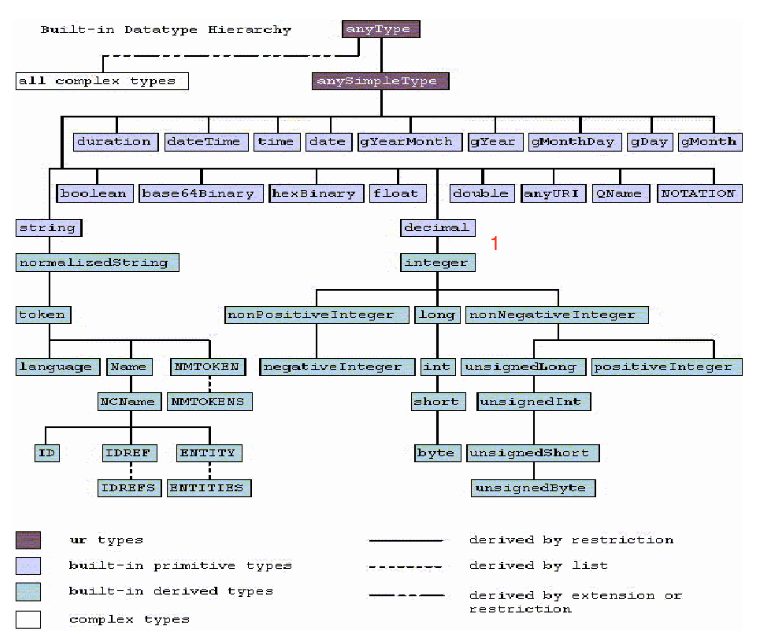
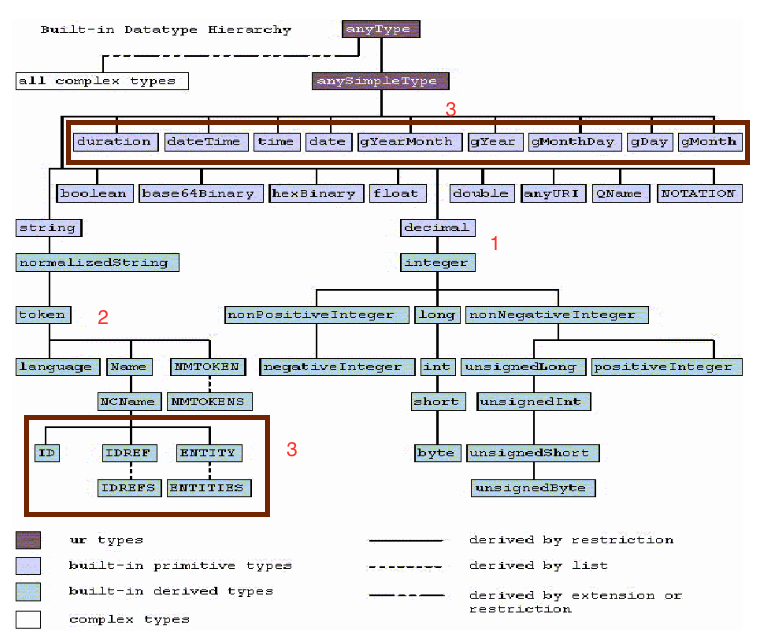
Video 4 h 33
-tipi schema (albero)

diff --git a/03 - XML Schema.md b/03 - XML Schema.md
@@ -298,6 +298,14 @@ La seguente figura rappresenta la gerarchia di alcuni tipi predefiniti.
 
 Si può vedere dalla figura sia tipi interi che tipi decimali (1) e cosi via.
 
+Nel DTD si aveva il token (2) come qui che è sotto a stringa perché il token è una singola parola senza spazi.
+
+Per essere compatibile con le tecnologie passate si sono inserite i loro tipi (3).
+
+C'è anche la data (3).
+
+Inoltre per i caratteri ci sono le varie rapresentazoini tra cui il base64Binary e cosi via. Come pure `anyURI`.
+
 ### Restricion, List e Union
 
 Ora vediamo come possiamo definirei nuovi tipi in modo esplicito utilizzando *restriction*, *list* e *union*.
